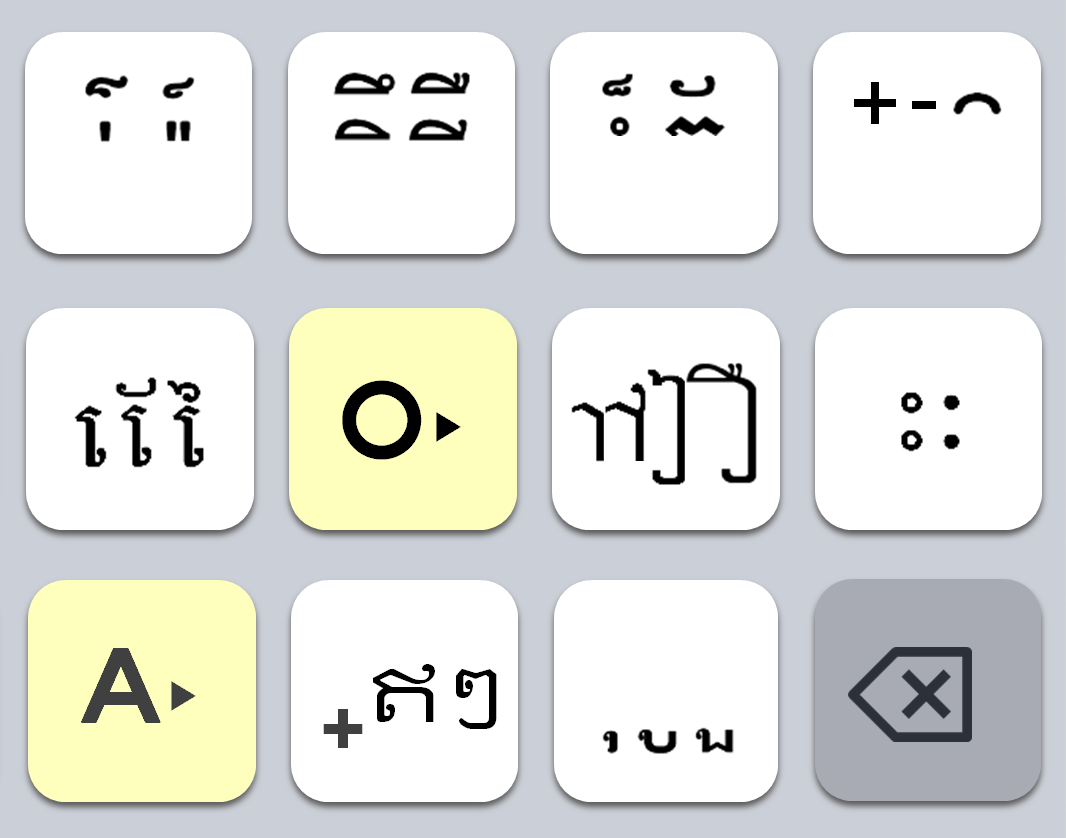
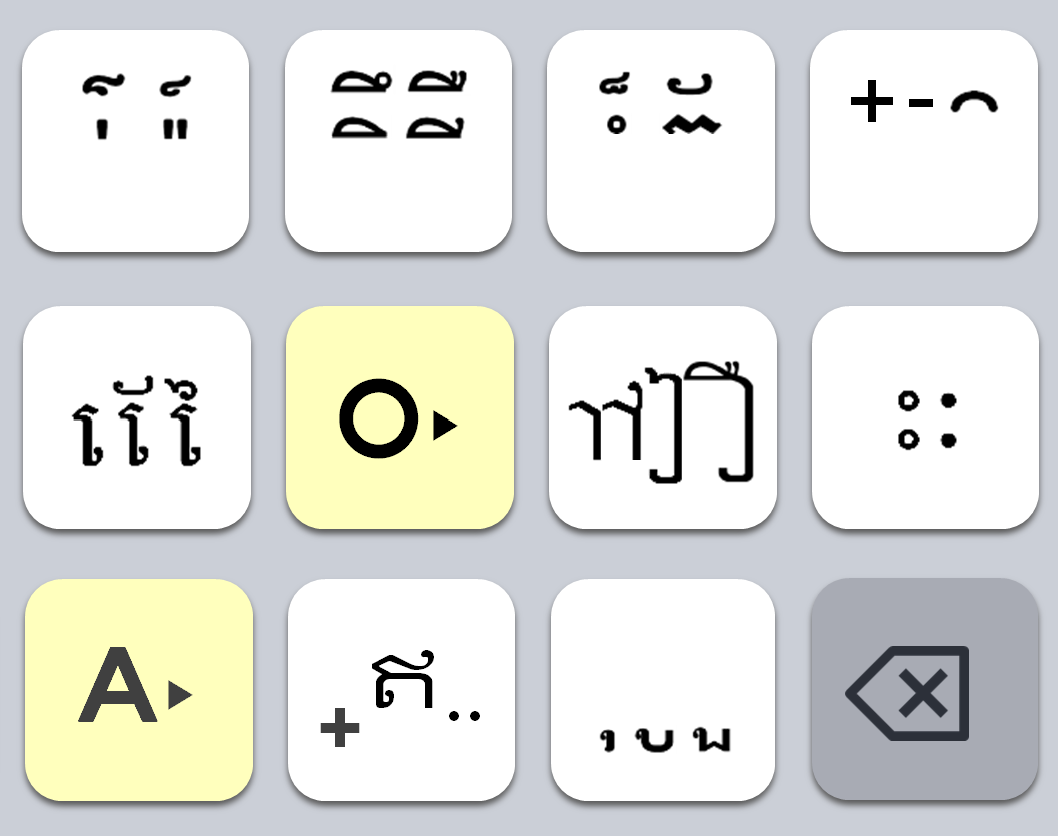
Add files via upload

diff --git a/mobile_demo.html b/mobile_demo.html
@@ -81,10 +81,10 @@
   .kbd-consonant { font-size: clamp(12px, 5.5vw, 26px); color: #1a1208; }
   .kbd-consonant.o-series { color: #1a5fb4; }
   /* 다음키 버튼 (노란 키 위에 텍스트 표시) */
-  .kbd-next { font-size: clamp(10px, 3.5vw, 17px); color: #78350f; font-weight: 900; }
-  .kbd-onext { font-size: clamp(10px, 3.5vw, 17px); color: #78350f; font-weight: 900; }
+  .kbd-next { font-size: clamp(14px, 4vw, 20px); color: #78350f; font-weight: 900; }
+  .kbd-onext { font-size: clamp(14px, 4vw, 20px); color: #78350f; font-weight: 900; }
   /* 스택/팝업 키 */
-  .kbd-stack { font-size: clamp(9px, 3vw, 14px); color: #78350f; font-weight: 900; }
+  .kbd-stack { font-size: clamp(18px, 4vw, 22px); color: #78350f; font-weight: 900; }
   .kbd-stack.stack-active { color: #d97706; }
   /* 투명 클릭 영역 (부호/BS/스페이스/엔터/123) */
   .kbd-vowel, .kbd-func, .kbd-space, .kbd-enter, .kbd-123 { font-size: 0; }
@@ -271,8 +271,8 @@ const popupRight = [
     { type:'char', chars:['៙','៚'] },
   ],
   [
-    { type:'char', chars:['៕','៖'] },
-    { type:'char', chars:['ៗ'] },
+    { type:'char', chars:['ៗ','៖'] },
+    { type:'char', chars:['។','៕'] },
     { type:'char', chars:['៘','ៜ'] },
     { type:'bs' },
   ],
@@ -420,37 +420,26 @@ function handleVowel(keyId, chars) {
 
 function handleSpace() {
   const ZWSP = '\u200B';
-  const DANDAA = '។';
 
   if (state.spaceMode === 1) {
-    // 2타: spaceMode 먼저 변경(커서 즉시 원위치), 그 다음 ZWSP→។ 교체
+    // 2타: ZWSP→공백 교체
     state.spaceMode = 2;
     const t = getText();
-    if (t.endsWith(ZWSP)) setText(t.slice(0, -1) + DANDAA);
+    if (t.endsWith(ZWSP)) setText(t.slice(0, -1) + ' ');
     state.lastVowelKey = null;
     state.vowelTapIdx = 0;
     render();
     return;
   }
-  if (state.spaceMode === 2) {
-    // 3타: spaceMode 먼저 변경, 그 다음 ។→공백 교체
-    state.spaceMode = 3;
-    const t = getText();
-    if (t.endsWith(DANDAA)) setText(t.slice(0, -1) + ' ');
-    state.lastVowelKey = null;
-    state.vowelTapIdx = 0;
-    render();
-    return;
-  }
-  if (state.spaceMode === 3) {
-    // 4타~: 공백만 추가
+  if (state.spaceMode >= 2) {
+    // 3타~: 공백 추가
     appendText(' ');
     state.lastVowelKey = null;
     state.vowelTapIdx = 0;
     render();
     return;
   }
-  // 기본(spaceMode=0): 1타 — spaceMode 먼저 1로 세팅 후 ZWSP 삽입
+  // 기본(spaceMode=0): 1타 — ZWSP 삽입
   state.spaceMode = 1;
   state.activeRoot = null;
   state.activeCharIdx = 0;
@@ -677,7 +666,7 @@ function render() {
 
       } else if (rk.type === 'stack') {
         const b = makeOverlayBtn('kbd-stack' + (state.stackMode ? ' stack-active' : ''), style, () => handleStack());
-        b.textContent = state.stackMode ? '្▸팝업' : '្ ឥ..';
+        b.textContent = state.stackMode ? 'ឥ' : '្ ឥ..';
         kbd.appendChild(b);
 
       } else if (rk.type === 'vowel') {
@@ -701,7 +690,7 @@ function render() {
   const lbl = document.createElement('div');
   lbl.className = 'kbd-space-label';
   lbl.style.cssText = `left:25.95%;top:${BOT_Y}%;width:48.75%;height:${BOT_H}%;`;
-  lbl.textContent = '⁝ ។ ␣';
+  lbl.textContent = '⁝ ␣';
   kbd.appendChild(lbl);
 
   // 엔터
